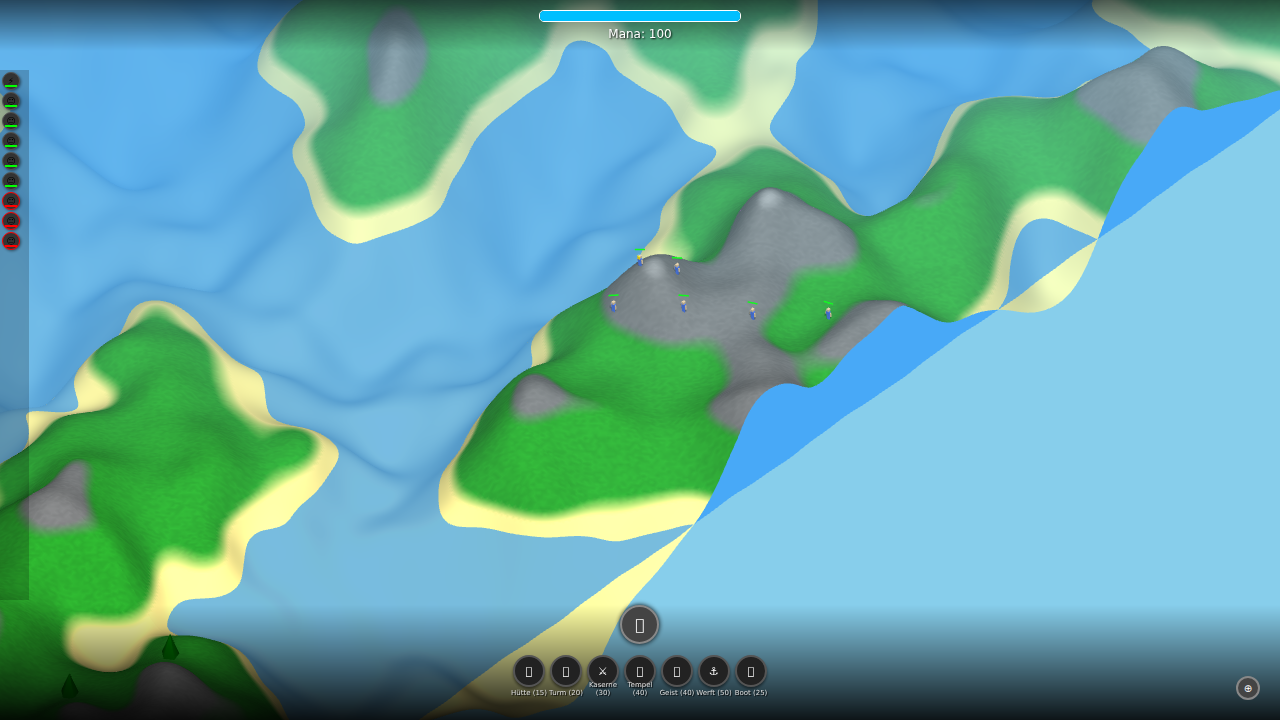
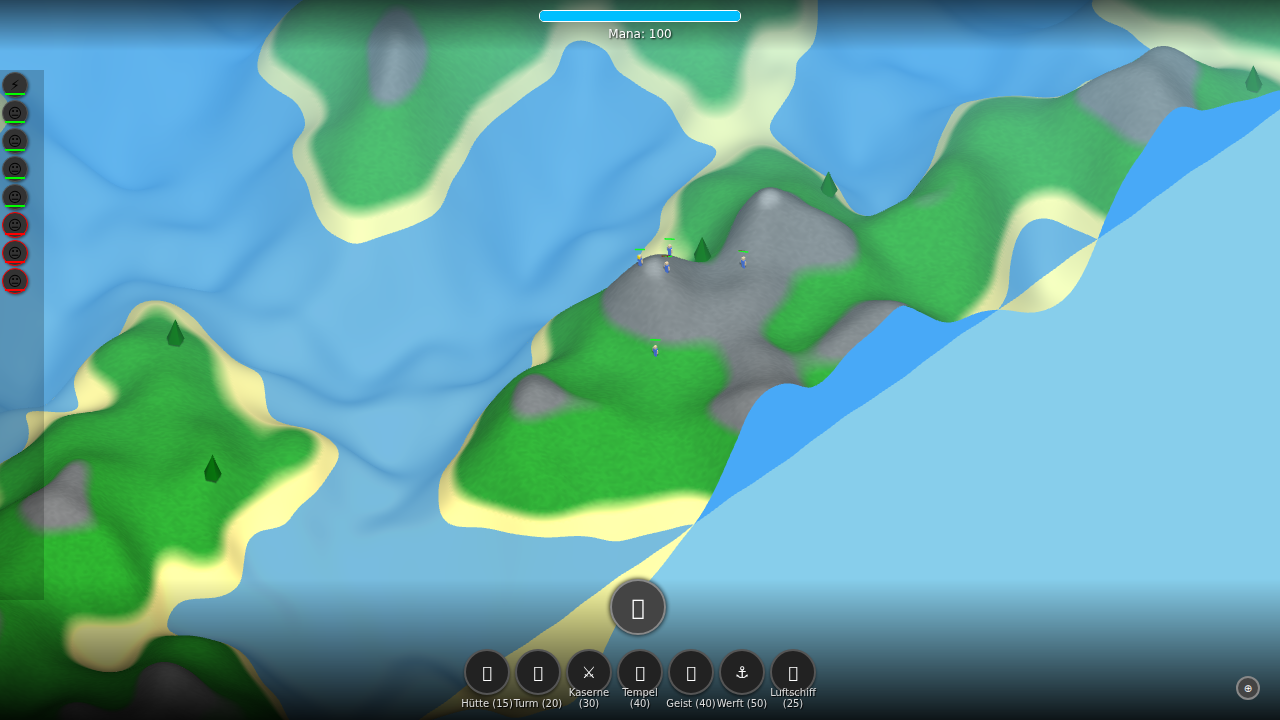
Update game features: Airship, UI sizing, Mana fix

diff --git a/PopulateTheRebeginning.html b/PopulateTheRebeginning.html
@@ -35,12 +35,12 @@
         }
 
         .action-btn {
-            width: 28px; height: 28px;
+            width: 42px; height: 42px;
             border-radius: 50%;
             border: 2px solid #555;
             background: #222;
             color: white;
-            font-size: 11px;
+            font-size: 16px;
             cursor: pointer;
             transition: all 0.2s;
             display: flex; align-items: center; justify-content: center;
@@ -49,7 +49,7 @@
         }
         .action-btn.active { border-color: #FFD700; transform: translateY(-3px); box-shadow: 0 0 8px #FFD700; background: #444; }
         .action-btn:active { transform: scale(0.95); }
-        .label { font-size: 7px; position: absolute; bottom: -12px; width: 140%; left: -20%; text-align: center; text-shadow: 1px 1px 1px black; color: #ddd;}
+        .label { font-size: 10px; position: absolute; bottom: -16px; width: 140%; left: -20%; text-align: center; text-shadow: 1px 1px 1px black; color: #ddd;}
 
         #mana-bar {
             width: 200px; height: 10px; background: #333; margin: 0 auto; border: 1px solid white; border-radius: 5px; overflow: hidden;
@@ -67,7 +67,7 @@
             position: absolute;
             top: 70px;
             left: 0;
-            width: 25px;
+            width: 40px;
             bottom: 120px;
             overflow-y: auto;
             overflow-x: hidden;
@@ -85,15 +85,15 @@
         #unit-list::-webkit-scrollbar-thumb { background: rgba(255,255,255,0.3); border-radius: 1px; }
 
         .unit-item {
-            width: 16px;
-            height: 16px;
+            width: 24px;
+            height: 24px;
             background: #333;
             border: 1px solid #555;
             border-radius: 50%;
             display: flex;
             align-items: center;
             justify-content: center;
-            font-size: 9px;
+            font-size: 14px;
             cursor: pointer;
             flex-shrink: 0;
             position: relative;
@@ -115,17 +115,17 @@
         /* RADIAL MENU CSS */
         #radial-container {
             position: relative;
-            width: 40px; height: 40px;
+            width: 60px; height: 60px;
             margin: 0 auto 5px auto;
             touch-action: none;
         }
         #main-icon {
-            width: 35px; height: 35px;
+            width: 52px; height: 52px;
             border-radius: 50%;
             background: #444;
             border: 2px solid #888;
             color: white;
-            font-size: 15px;
+            font-size: 22px;
             display: flex; align-items: center; justify-content: center;
             cursor: pointer;
             position: relative;
@@ -141,28 +141,28 @@
         }
         #radial-options.open { opacity: 1; pointer-events: auto; }
         .radial-option {
-            width: 25px; height: 25px;
+            width: 37px; height: 37px;
             border-radius: 50%;
             background: #333;
             border: 1px solid #666;
             color: white;
-            font-size: 12px;
+            font-size: 18px;
             display: flex; align-items: center; justify-content: center;
             position: absolute;
-            top: 7.5px; left: 7.5px; /* Center relative to container */
+            top: 11.5px; left: 11.5px; /* Center relative to container */
             transition: transform 0.2s, background 0.2s;
             box-shadow: 0 0 3px black;
         }
         /* Positions: Basic(Left), Spells(Top), Build(Right) */
-        .radial-option[data-tab="basic"] { transform: translate(-35px, -10px); }
-        .radial-option[data-tab="spells"] { transform: translate(0px, -45px); }
-        .radial-option[data-tab="build"] { transform: translate(35px, -10px); }
+        .radial-option[data-tab="basic"] { transform: translate(-50px, -15px); }
+        .radial-option[data-tab="spells"] { transform: translate(0px, -65px); }
+        .radial-option[data-tab="build"] { transform: translate(50px, -15px); }
 
         .radial-option.highlight { background: #FFD700; color: black; transform: scale(1.2) !important; z-index: 25; }
         /* Keep positions when highlighted */
-        .radial-option[data-tab="basic"].highlight { transform: translate(-35px, -10px) scale(1.2); }
-        .radial-option[data-tab="spells"].highlight { transform: translate(0px, -45px) scale(1.2); }
-        .radial-option[data-tab="build"].highlight { transform: translate(35px, -10px) scale(1.2); }
+        .radial-option[data-tab="basic"].highlight { transform: translate(-50px, -15px) scale(1.2); }
+        .radial-option[data-tab="spells"].highlight { transform: translate(0px, -65px) scale(1.2); }
+        .radial-option[data-tab="build"].highlight { transform: translate(50px, -15px) scale(1.2); }
 
     </style>
 </head>
@@ -234,7 +234,7 @@
                 <div class="action-btn" onclick="selectAction('build_fire')" id="btn-build_fire">🔥<span class="label">Tempel (40)</span></div>
                 <div class="action-btn" onclick="selectAction('build_spy')" id="btn-build_spy">🌙<span class="label">Geist (40)</span></div>
                 <div class="action-btn" onclick="selectAction('build_shipyard')" id="btn-build_shipyard">⚓<span class="label">Werft (50)</span></div>
-                <div class="action-btn" onclick="selectAction('build_boat')" id="btn-build_boat">⛵<span class="label">Boot (25)</span></div>
+                <div class="action-btn" onclick="selectAction('build_airship')" id="btn-build_airship">🎈<span class="label">Luftschiff (25)</span></div>
             </div>
         </div>
     </div>
@@ -764,7 +764,7 @@
         const hasBrave = selectedUnits.some(u => u.type === 'wild');
         const hasSelection = selectedUnits.length > 0;
 
-        const hasBoat = selectedUnits.length === 1 && selectedUnits[0].type === 'boat';
+        const hasAirship = selectedUnits.length === 1 && selectedUnits[0].type === 'airship';
 
         document.getElementById('tab-spells').style.display = hasShaman ? 'flex' : 'none';
         document.getElementById('tab-build').style.display = hasBrave ? 'flex' : 'none';
@@ -772,7 +772,7 @@
 
         // Unload Button
         const unloadBtn = document.getElementById('btn-unload');
-        if(unloadBtn) unloadBtn.style.display = (hasBoat && selectedUnits[0].passengers.length > 0) ? 'flex' : 'none';
+        if(unloadBtn) unloadBtn.style.display = (hasAirship && selectedUnits[0].passengers.length > 0) ? 'flex' : 'none';
 
         // Auto-switch tabs if needed
         if(hasSelection) {
@@ -801,10 +801,12 @@
             blast: 10, lightning: 30, convert: 10, raise: 5, lower: 5, flatten: 10, landbridge: 20,
             swamp: 15, invisibility: 20, shield: 20, hypnotise: 50, swarm: 20, tornado: 60, firestorm: 80, volcano: 40,
             build_hut: BUILDING_COSTS.hut, build_tower: BUILDING_COSTS.tower, build_warrior: BUILDING_COSTS.warrior,
-            build_fire: BUILDING_COSTS.fire, build_spy: BUILDING_COSTS.spy
+            build_fire: BUILDING_COSTS.fire, build_spy: BUILDING_COSTS.spy, build_shipyard: BUILDING_COSTS.shipyard, build_airship: 25
         };
-        if (mana < costs[currentAction]) return;
-        mana -= costs[currentAction];
+        const cost = costs[currentAction];
+        if (cost === undefined || isNaN(cost)) return;
+        if (mana < cost) return;
+        mana -= cost;
         updateUI();
 
         if (currentAction === 'blast') {
@@ -985,7 +987,8 @@
                  }
             });
         }
-        else if (currentAction === 'build_boat') {
+        else if (currentAction === 'build_airship') {
+            // Build Airship
             // Find nearest shipyard
             let nearest = null; let minD = 50;
             buildings.forEach(b => {
@@ -996,27 +999,19 @@
             });
 
             if(nearest) {
-                // Find spawn spot
-                // Simple: Spawn at clicked location if water, or near shipyard
-                const h = getHeight(x, z);
-                if(h < 2.0) {
-                     const boat = new Humanoid(0, 'boat', x, z);
-                     units.push(boat);
-                     spawnPulse(x, h, z, 0xFFFFFF);
-                     SoundManager.playSound('construct');
-                } else {
-                    // Try to find water near shipyard
-                    // Simple fallback: spawn at x,z regardless, physics will handle?
-                    // No, Humanoid constructor sets height.
-                    // We need to ensure it's water.
-                    // Let's assume user clicked on water.
-                }
+                 const h = getHeight(x, z);
+                 const airship = new Humanoid(0, 'airship', x, z);
+                 // Airship height override
+                 airship.mesh.position.y = Math.max(h, 10);
+                 units.push(airship);
+                 spawnPulse(x, h, z, 0xFFFFFF);
+                 SoundManager.playSound('construct');
             } else {
                  // No shipyard nearby
             }
         }
         else if (currentAction === 'unload') {
-            if(selectedUnits.length === 1 && selectedUnits[0].type === 'boat') {
+            if(selectedUnits.length === 1 && selectedUnits[0].type === 'airship') {
                 selectedUnits[0].unload();
             }
         }
@@ -1379,7 +1374,7 @@
             if(type === 'warrior') { this.maxHp = 200; this.damage = 15; }
             if(type === 'firewarrior') { this.maxHp = 120; this.damage = 25; this.range = 12; this.attackSpeed = 2.0; }
             if(type === 'shaman') { this.maxHp = 500; this.damage = 30; this.range = 15; }
-            if(type === 'boat') { this.maxHp = 500; this.damage = 0; this.moveSpeed = 15; this.isVehicle = true; this.passengers = []; this.capacity = 5; }
+            if(type === 'airship') { this.maxHp = 500; this.damage = 0; this.moveSpeed = 15; this.isVehicle = true; this.passengers = []; this.capacity = 5; }
 
             this.hp = this.maxHp; this.recoverTimer = 0;
             this.shielded = false;
@@ -1405,14 +1400,25 @@
             this.mesh.add(this.hpGroup);
 
             // Body Parts
-            if(type === 'boat') {
-                 const hull = new THREE.Mesh(new THREE.BoxGeometry(2, 1, 4), new THREE.MeshLambertMaterial({color: COLORS.wood}));
-                 hull.position.y = 0.5;
-                 this.mesh.add(hull);
-                 const mast = new THREE.Mesh(new THREE.CylinderGeometry(0.1, 0.1, 3), new THREE.MeshLambertMaterial({color: COLORS.wood}));
-                 mast.position.set(0, 2, 0); this.mesh.add(mast);
-                 const sail = new THREE.Mesh(new THREE.PlaneGeometry(2, 2), new THREE.MeshLambertMaterial({color: 0xFFFFFF, side: THREE.DoubleSide}));
-                 sail.position.set(0, 2.5, 0.5); sail.rotation.y = Math.PI/2; this.mesh.add(sail);
+            if(type === 'airship') {
+                 // Basket
+                 const basket = new THREE.Mesh(new THREE.BoxGeometry(2, 1, 3), new THREE.MeshLambertMaterial({color: COLORS.wood}));
+                 basket.position.y = 0.5;
+                 this.mesh.add(basket);
+                 // Ropes
+                 const rope1 = new THREE.Mesh(new THREE.CylinderGeometry(0.05, 0.05, 3), new THREE.MeshLambertMaterial({color: 0x888888}));
+                 rope1.position.set(0.9, 2, 1.4); this.mesh.add(rope1);
+                 const rope2 = new THREE.Mesh(new THREE.CylinderGeometry(0.05, 0.05, 3), new THREE.MeshLambertMaterial({color: 0x888888}));
+                 rope2.position.set(-0.9, 2, 1.4); this.mesh.add(rope2);
+                 const rope3 = new THREE.Mesh(new THREE.CylinderGeometry(0.05, 0.05, 3), new THREE.MeshLambertMaterial({color: 0x888888}));
+                 rope3.position.set(0.9, 2, -1.4); this.mesh.add(rope3);
+                 const rope4 = new THREE.Mesh(new THREE.CylinderGeometry(0.05, 0.05, 3), new THREE.MeshLambertMaterial({color: 0x888888}));
+                 rope4.position.set(-0.9, 2, -1.4); this.mesh.add(rope4);
+                 // Balloon
+                 const balloon = new THREE.Mesh(new THREE.SphereGeometry(2.5, 16, 16), new THREE.MeshLambertMaterial({color: 0xEEEEEE}));
+                 balloon.scale.set(1, 0.8, 1.5);
+                 balloon.position.set(0, 4.5, 0);
+                 this.mesh.add(balloon);
             } else {
                 this.torso = new THREE.Group(); this.torso.position.y = 0.9; this.mesh.add(this.torso);
                 this.torso.add(new THREE.Mesh(new THREE.BoxGeometry(0.4, 0.5, 0.25), shirtMat));
@@ -1435,7 +1441,7 @@
                 mask.position.z = 0.16; this.head.add(mask);
             }
 
-            if (type !== 'boat') {
+            if (type !== 'airship') {
                 const createLimb = (w, h, mat, px, py, pz) => {
                     const group = new THREE.Group(); group.position.set(px, py, pz);
                     const mesh = new THREE.Mesh(new THREE.BoxGeometry(w, h, w), mat); mesh.position.y = -h / 2; mesh.castShadow = true;
@@ -1579,7 +1585,7 @@
 
             // Water constraint
             const WATER_LEVEL = 2.0;
-            if (this.type !== 'boat' && this.state !== 'dead') {
+            if (this.type !== 'airship' && this.state !== 'dead') {
                 // If deep in water, push out or damage? Or just prevent entry?
                 // Here we prevent entry in movement logic below, but if stuck:
                 const h = getHeight(this.mesh.position.x, this.mesh.position.z);
@@ -1690,11 +1696,11 @@
                     const dh = nextH - getHeight(this.mesh.position.x, this.mesh.position.z);
 
                     let canMove = true;
-                    if(this.type !== 'boat' && nextH < 2.0) canMove = false;
+                    if(this.type !== 'airship' && nextH < 2.0) canMove = false;
 
                     if(canMove) {
                         const slopeFactor = dh > 0 ? (1.0 / (1.0 + dh * 3.0)) : 1.0;
-                        const speed = this.moveSpeed * slopeFactor;
+                        const speed = this.moveSpeed * (this.type === 'airship' ? 1.0 : slopeFactor);
                         this.velocity.x = dir.x * speed; this.velocity.z = dir.z * speed;
                         this.mesh.rotation.y = Math.atan2(dx, dz);
                     } else {
@@ -1718,8 +1724,9 @@
 
                 // Check boat entry while moving (allow early entry)
                 if(this.targetBoat && this.targetBoat.state !== 'dead') {
-                     const d = this.mesh.position.distanceTo(this.targetBoat.mesh.position);
-                     if(d < 5.0) { // Large radius for boarding
+                     // 3D distance check, ignore Y difference essentially for trigger
+                     const distSq = (this.mesh.position.x - this.targetBoat.mesh.position.x)**2 + (this.mesh.position.z - this.targetBoat.mesh.position.z)**2;
+                     if(distSq < 25.0) { // 5.0 distance squared
                          if(this.targetBoat.loadUnit(this)) {
                              this.targetBoat = null;
                              this.state = 'idle'; this.velocity.set(0,0,0);
@@ -1741,13 +1748,13 @@
 
                     let canMove = true;
                     // Allow moving into water if targeting a boat
-                    if(this.type !== 'boat' && nextH < 2.0) {
+                    if(this.type !== 'airship' && nextH < 2.0) {
                         if(!this.targetBoat) canMove = false;
                     }
 
                     if(canMove) {
                         const slopeFactor = dh > 0 ? (1.0 / (1.0 + dh * 3.0)) : 1.0;
-                        const speed = this.moveSpeed * slopeFactor;
+                        const speed = this.moveSpeed * (this.type === 'airship' ? 1.0 : slopeFactor);
                         this.velocity.x = dir.x * speed; this.velocity.z = dir.z * speed;
                         this.mesh.rotation.y = Math.atan2(dx, dz);
                     } else {
@@ -1805,27 +1812,32 @@
         unload() {
             if(!this.passengers.length) return;
 
-            // Find valid land spot around boat
-            // Simple: Just dump them at boat pos if close to land or check radius
+            // Unload below airship if safe, or find safe spot
             const r = 3;
             for(let i=this.passengers.length-1; i>=0; i--) {
                 const p = this.passengers[i];
-                // Try find land
-                let found = false;
-                for(let angle=0; angle<Math.PI*2; angle+=0.5) {
-                    const tx = this.mesh.position.x + Math.cos(angle)*r;
-                    const tz = this.mesh.position.z + Math.sin(angle)*r;
-                    if(getHeight(tx, tz) >= 2.0) {
-                        p.mesh.position.set(tx, getHeight(tx, tz), tz);
-                        p.mesh.visible = true;
-                        p.state = 'idle';
-                        p.transportedBy = null;
-                        this.passengers.splice(i, 1);
-                        found = true;
-                        spawnPulse(tx, p.mesh.position.y, tz, 0xFFFFFF);
-                        break;
+                // Check directly below first
+                let tx = this.mesh.position.x;
+                let tz = this.mesh.position.z;
+                if (getHeight(tx, tz) < 2.0) {
+                    // Try find land in radius
+                    let found = false;
+                    for(let angle=0; angle<Math.PI*2; angle+=0.5) {
+                        const scanX = this.mesh.position.x + Math.cos(angle)*r;
+                        const scanZ = this.mesh.position.z + Math.sin(angle)*r;
+                        if(getHeight(scanX, scanZ) >= 2.0) {
+                            tx = scanX; tz = scanZ; found = true; break;
+                        }
                     }
+                    if(!found) continue; // Can't unload this unit safely yet
                 }
+
+                p.mesh.position.set(tx, getHeight(tx, tz), tz);
+                p.mesh.visible = true;
+                p.state = 'idle';
+                p.transportedBy = null;
+                this.passengers.splice(i, 1);
+                spawnPulse(tx, p.mesh.position.y, tz, 0xFFFFFF);
             }
         }
     }
@@ -2308,14 +2320,11 @@
                  const hitUnit = meshToUnit.get(unitHits[0].object);
 
                  // Enter Boat Logic
-                 if(hitUnit && hitUnit.type === 'boat' && hitUnit.faction === 0) {
+                 if(hitUnit && hitUnit.type === 'airship' && hitUnit.faction === 0) {
                      if(selectedUnits.length > 0) {
                          selectedUnits.forEach(u => {
-                             if(u.type !== 'boat' && !u.isShaman) {
-                                 // Simple: Teleport if close, or walk to?
-                                 // Walk to logic:
+                             if(u.type !== 'airship' && !u.isShaman) {
                                  u.goto(hitUnit.mesh.position.x, hitUnit.mesh.position.z);
-                                 // We need a way to check arrival and enter
                                  u.targetBoat = hitUnit;
                              }
                          });
@@ -2366,7 +2375,8 @@
         const playerBraves = units.filter(u => u.faction === 0 && u.type === 'wild').length;
         const manaRate = 1.0 + (playerBraves * 0.2); // Base + bonus per brave
 
-        if(mana < 100) { mana += dt * manaRate; updateUI(); }
+        if (isNaN(mana)) mana = 0;
+        if(mana < 100) { mana += dt * manaRate; if(isNaN(mana)) mana = 0; updateUI(); }
 
         if(chunkWaterMat && chunkWaterMat.uniforms) chunkWaterMat.uniforms.time.value += dt;
 

diff --git a/verification/verify_game.py b/verification/verify_game.py
@@ -28,11 +28,12 @@ def verify_changes():
         else:
             print("Shipyard button NOT visible")
 
-        boat_btn = page.locator("#btn-build_boat")
+        # Check for AIRSHIP button now, not boat
+        boat_btn = page.locator("#btn-build_airship")
         if boat_btn.is_visible():
-            print("Boat button visible")
+            print("Airship button visible")
         else:
-            print("Boat button NOT visible")
+            print("Airship button NOT visible")
 
         # 4. Check Unload Button existence (initially hidden)
         unload_btn = page.locator("#btn-unload")
